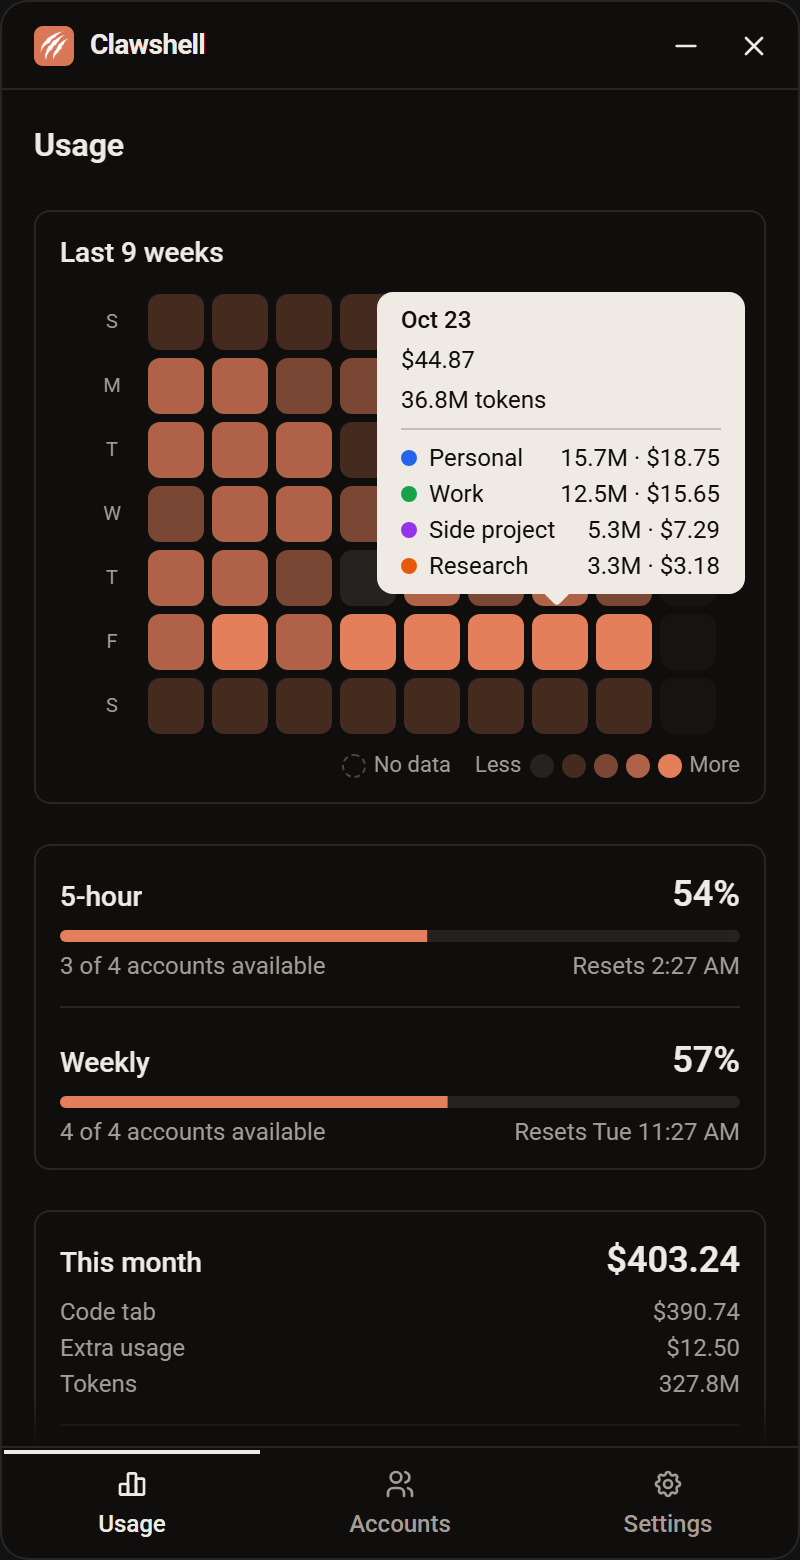
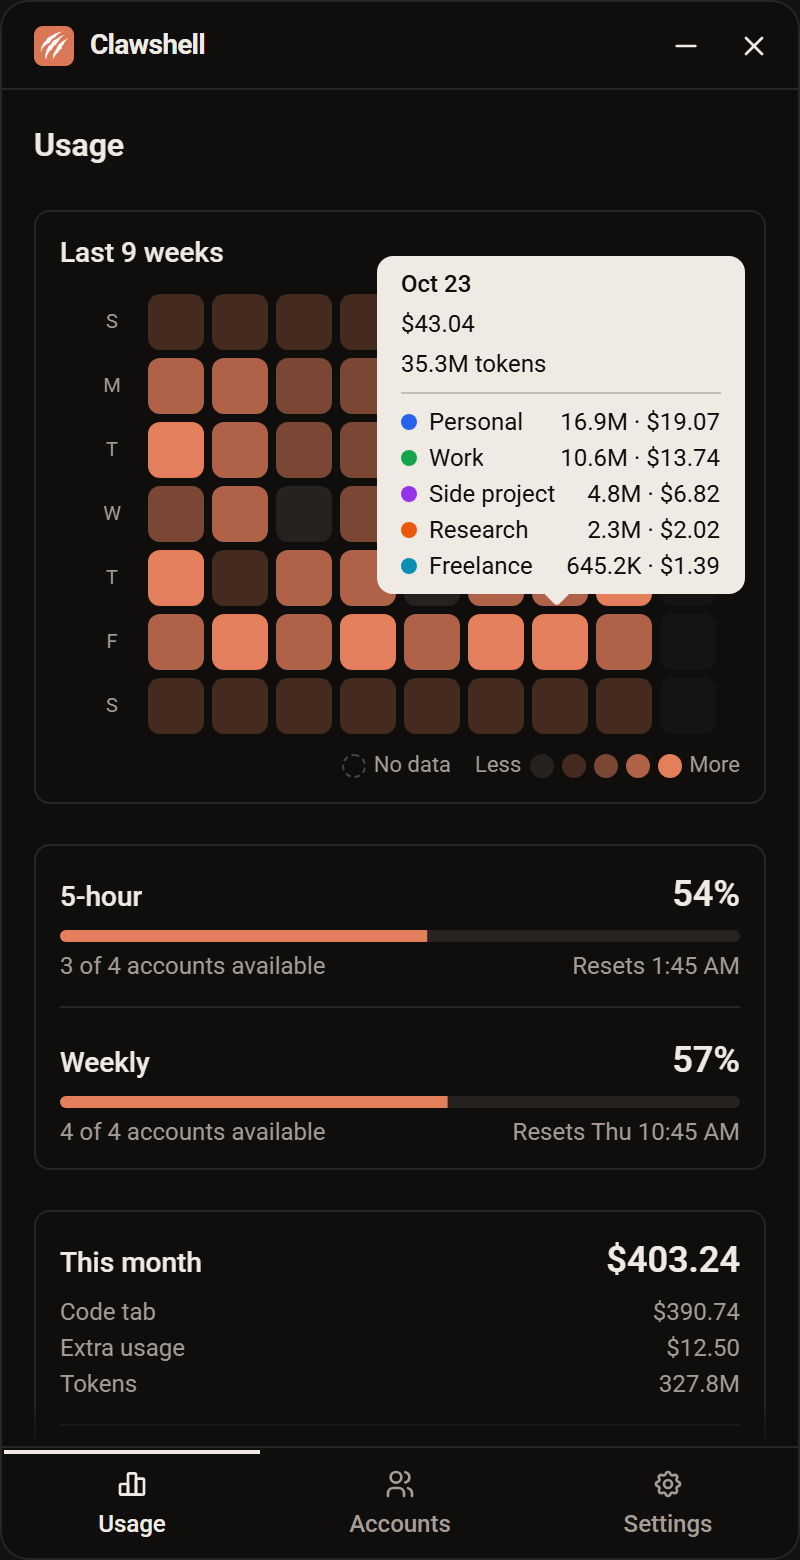
Retake README screenshots for v0.5.0
Retakes every README screenshot. The sample data gains a disabled
account, Freelance, listed last and left out of the pooled usage, and
a new disabled-account shot shows it below the limited one. The update
dialog's sample now offers 0.5.0 over 0.4.1 with this release's notes.

diff --git a/scripts/screenshots/mock.js b/scripts/screenshots/mock.js
@@ -48,6 +48,7 @@
 	});
 	const account = (o) => ({
 		isDefault: false,
+		disabled: false,
 		copyBlocker: null,
 		running: o.status === 'running',
 		usagePending: false,
@@ -94,10 +95,21 @@
 			email: 'lab@example.net',
 			copyBlocker: 'open-code-tab',
 			usage: snap(100, 0.6 * H, 88, 1.4 * D)
+		}),
+		account({
+			id: 'f2a8',
+			label: 'Freelance',
+			colour: '#0891b2',
+			status: 'idle',
+			disabled: true,
+			email: 'alex@freelance.example',
+			copyBlocker: 'disabled',
+			usage: snap(4, 4.2 * H, 9, 5.6 * D)
 		})
 	];
+	// Disabled accounts are left out of the pool, as the core does.
 	const pooledWindow = (key) => {
-		const used = accounts.map((a) => a.usage[key]);
+		const used = accounts.filter((a) => !a.disabled).map((a) => a.usage[key]);
 		return {
 			remainingPercent: used.reduce((s, w) => s + (100 - w.utilization), 0) / used.length,
 			available: used.filter((w) => w.utilization < 100).length,
@@ -126,7 +138,7 @@
 	};
 
 	// ---- cost ------------------------------------------------------------
-	const shares = [0.46, 0.31, 0.15, 0.08];
+	const shares = [0.44, 0.3, 0.15, 0.08, 0.03];
 	const monthCost = {
 		estimateUsd: 390.74,
 		noEstimate: null,
@@ -223,13 +235,13 @@
 
 	// Markdown, as the release workflow writes it into latest.json.
 	const notes = [
-		'The update dialog shows what’s new again, now laid out with headings and lists.',
+		'You can now disable an account you aren’t using.',
 		'',
-		'## Changed',
+		'## Added',
 		'',
-		'- Release notes keep their headings, paragraphs and bullet lists.',
-		'- Limited accounts are listed after the others until they come back.',
-		'- The **Update available** badge is smaller.'
+		'- **Disable account** and **Enable account** in an account’s right-click menu.',
+		'- A disabled account is greyed out and listed at the very bottom.',
+		'- It is hidden from the tray and left out of the pooled usage.'
 	].join('\n');
 
 	const handlers = {
@@ -244,13 +256,13 @@
 		routing_needs_choice: () => !!cfg.routingNeedsChoice,
 		disclaimer_status: () => ({ accepted: true, version: 1 }),
 		list_sessions: () => sessions,
-		new_account_defaults: () => ({ label: 'Account 5', colour: '#0891b2' }),
+		new_account_defaults: () => ({ label: 'Account 6', colour: '#db2777' }),
 		'plugin:updater|check': () =>
 			cfg.update
 				? {
 						rid: 1,
-						currentVersion: '0.4.0',
-						version: '0.4.1',
+						currentVersion: '0.4.1',
+						version: '0.5.0',
 						date: iso(now),
 						body: notes,
 						rawJson: {}
